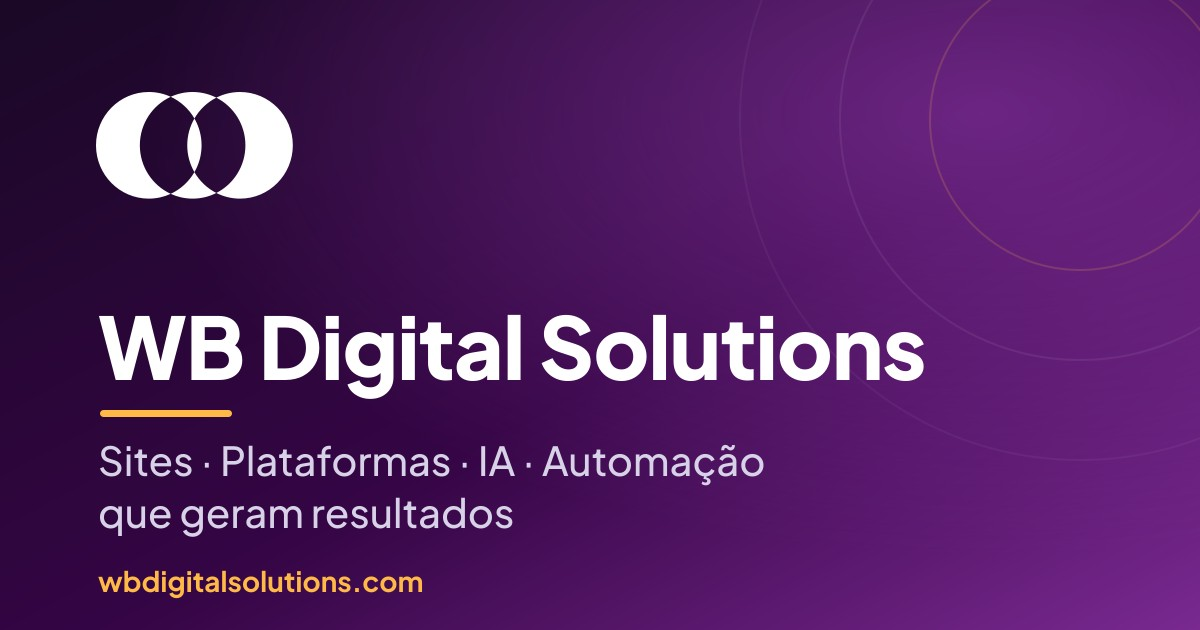
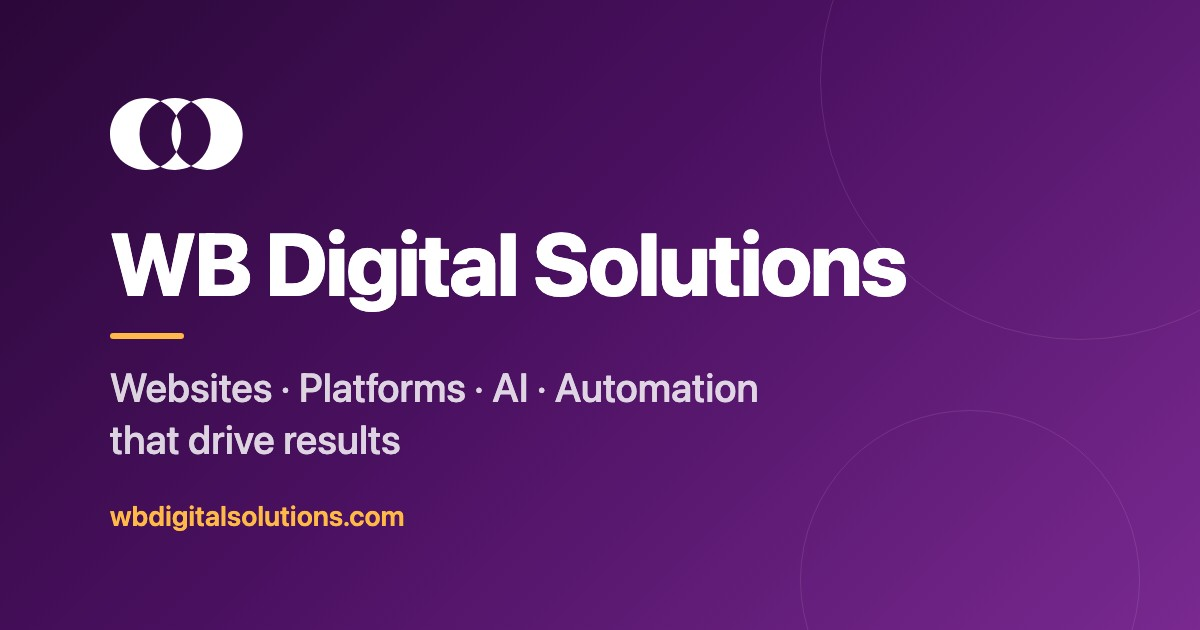
feat(i18n): localized og-home cards + the home finally gets its own meta
The shared og-home.jpg carried Portuguese text to every locale (and to
the EN site since day one); it is now one card per language with the
official circles mark and the services strip localized, and PageHead
picks the default og:image by locale for every page. The home also
called PageHead without a pageKey, falling back to an untranslated
generic title: new metaTitle_home/metaDescription_home in all 4 locale
JSONs (services in the title for ranking/CTR) + pageKey="home".
Acceptance gate re-run: green.

Changed region(s): [[0.0617, 0.1206, 0.7708, 0.9651]]

diff --git a/src/components/PageHead.tsx b/src/components/PageHead.tsx
@@ -93,12 +93,15 @@ const PageHead: React.FC<PageHeadProps> = ({
   const { canonicalUrl, hreflangs, ogLocale, ogLocaleAlternates } =
     buildSeoUrls(router.locale ?? router.defaultLocale, router.asPath);
 
-  // Per-page social image when provided, else a raster default. NOTE: og/twitter
-  // images must be raster (JPG/PNG) — social platforms (Facebook, LinkedIn,
-  // WhatsApp, X) do not render SVG, so the brand SVG logo would show no preview.
+  // Per-page social image when provided, else the LOCALIZED raster default
+  // (og-home.jpg = en; og-home-{pt,it,es}.jpg carry the services strip in
+  // each language). NOTE: og/twitter images must be raster (JPG/PNG) — social
+  // platforms do not render SVG, so the brand SVG logo would show no preview.
+  const urlLocale = router.locale ?? router.defaultLocale ?? "en";
+  const localizedDefaultOg = `${baseUrl}/img/og-home${urlLocale === "en" ? "" : `-${urlLocale}`}.jpg`;
   const ogImage = customImage
     ? (customImage.startsWith("http") ? customImage : `${baseUrl}${customImage}`)
-    : "https://www.wbdigitalsolutions.com/img/og-home.jpg";
+    : localizedDefaultOg;
 
   // Generate schemas based on page type
   const schemas = [];

diff --git a/src/pages/index.tsx b/src/pages/index.tsx
@@ -11,7 +11,7 @@ export const getStaticProps = makeI18nStaticProps();
 function Index() {
     return (
         <div className="w-full">
-          <PageHead />
+          <PageHead pageKey="home" />
             <LanguageRouter />
             <Home />
         </div>

diff --git a/docs/i18n-migration-plan.md b/docs/i18n-migration-plan.md
@@ -55,7 +55,7 @@ CV coexistence: built-in i18n also creates `/pt/dev/...`-style variants of the C
 - [x] Confirm CV subdomain rewrites and per-host assets are untouched.
 
 ### P4 — Polish
-- [ ] Per-locale OG cards for the main pages (reuse the Playwright generator from the CV work) — at minimum a localized og-home per language. NOT DONE YET; explicitly a follow-up, does not block the merge (og:title/description are already localized per URL).
+- [x] Per-locale OG cards: og-home{,-pt,-it,-es}.jpg rebuilt with the official circles mark and the services strip localized; PageHead picks the default og:image by locale. Owner approved the sheet.
 - [x] GA4 note: paths gain locale prefixes; DECISION: no action now, revisit reports after launch.
 - [x] Bundle/props audit: /pt home total weight measured at 895 KiB on the preview (acceptable); revisit message-splitting only if pages get heavier.
 